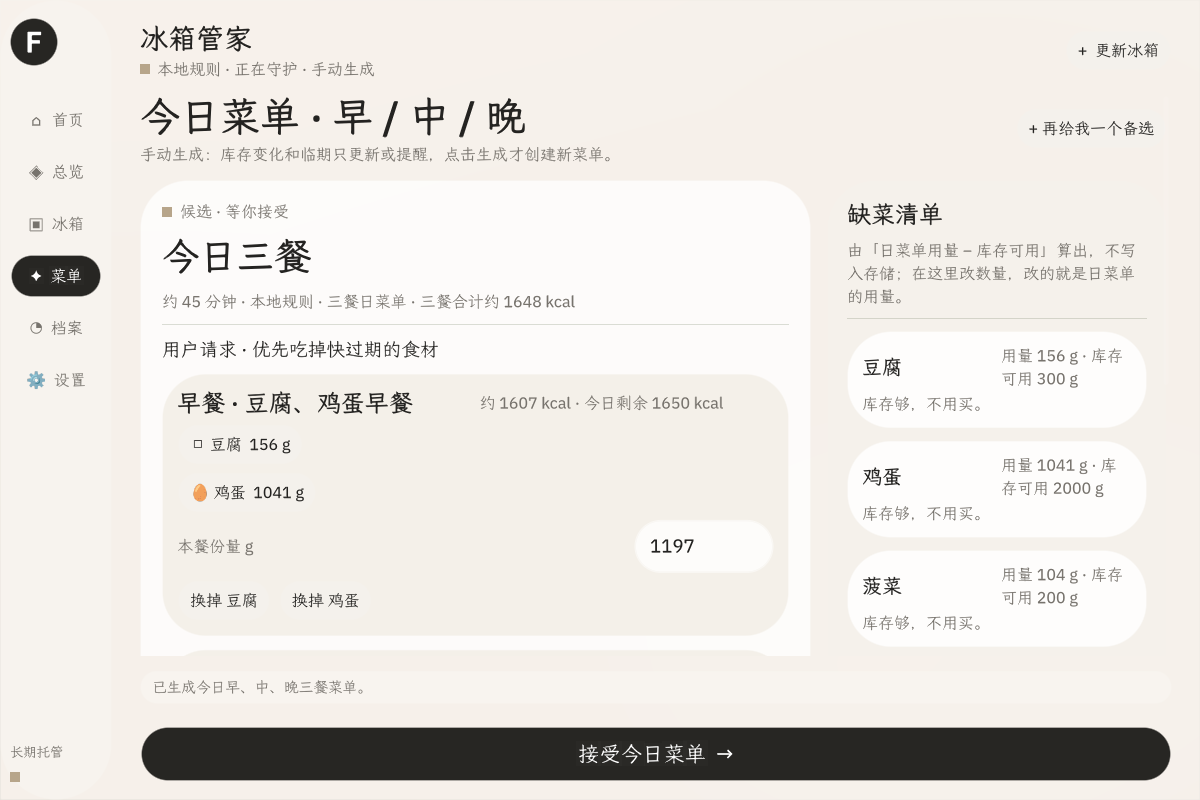
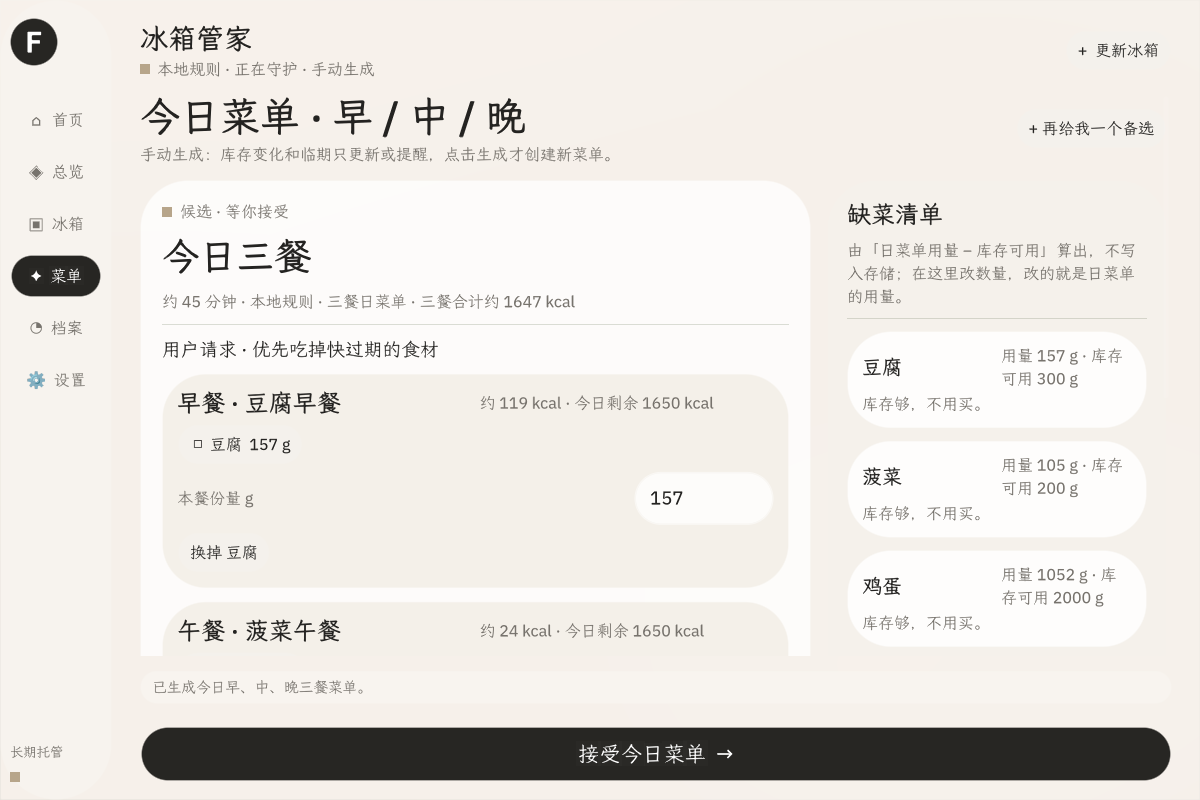
docs(#29): 交付检查点：重拍截图、改正仓库链接、按宿主固定 App Hub 重新盖章
- bundle/screenshots 四张发布截图用当前 0.8.0 在隐藏参考宿主中重拍（合成数据），
  如实显示 缺菜清单 还差 952 克、可编辑数量与 一键补齐 入口。
- 支持与隐私链接随仓库改名更新为 pantry-steward（listing、PRIVACY、SUPPORT、
  SUBMISSION、AGENTS、test_release 守卫）。
- 按宿主固定的官方 App Hub 8347a489 重新盖章，bundle check PASSED，仅余预期
  未签名提示；manifest 版本保持 0.8.0。
- VALIDATION.md 记录本次原生运行（--menu-purchase 13/13）与仍未验证项。

diff --git a/tools/test_release.py b/tools/test_release.py
@@ -6,7 +6,7 @@ import unittest
 
 APP = Path(__file__).resolve().parents[1]
 BUNDLE = APP / "bundle"
-REPOSITORY = "https://github.com/woshuoduijiushidui/OctoSense-AppCard"
+REPOSITORY = "https://github.com/woshuoduijiushidui/pantry-steward"
 
 
 class ReleaseMetadataTests(unittest.TestCase):
@@ -29,6 +29,14 @@ class ReleaseMetadataTests(unittest.TestCase):
             path = (BUNDLE / name).resolve()
             self.assertTrue(path.is_relative_to(BUNDLE.resolve()))
             self.assertTrue(path.is_file(), name)
+
+    def test_no_stale_repository_name_in_published_metadata(self):
+        # The repository was renamed to pantry-steward. A stale link is a dead
+        # end for users and would disagree with REPOSITORY above, so guard it.
+        for name in ("README.md", "README.zh-CN.md", "PRIVACY.md", "SUPPORT.md",
+                     "SUBMISSION.md", "AGENTS.md"):
+            self.assertNotIn("OctoSense-AppCard", (APP / name).read_text(encoding="utf-8"), name)
+        self.assertNotIn("OctoSense-AppCard", (BUNDLE / "listing.json").read_text(encoding="utf-8"))
 
     def test_package_size_and_no_private_configuration(self):
         files = [path for path in BUNDLE.rglob("*") if path.is_file()]

diff --git a/README.md b/README.md
@@ -8,7 +8,7 @@ Turn confirmed pantry inventory into a meal you can review and execute.
 
 This branch contains the unpublished **0.8.0 source candidate** for Issue #2 and the Issue #8–#11 and #23–#28 features (six-cycle candidates, composed plans, future-stage editing, the Overview page, the three-meal day menu and its derived 缺菜清单, the 模拟买菜 region, its 待核对购物车 and 确认收货). Alongside manual inventory, cycles, and menus, it creates editable drafts from a camera or imported image when the locally modified host reports image capability. The official host falls back to manual entry. The bundle passes the pinned App Hub gate. [Issue #99](https://github.com/OctoSense-org/OctoSense-App-Hub/issues/99) reviews **0.6.1**, not this candidate; no release or Hub approval is claimed.
 
-Only Windows is targeted. On 2026-10-11 the 0.8.0 bundle passed the pinned App Hub gate and 19 Python tests. In an isolated profile, the unmodified full official host passed 26 UI/data checks and restart checks, including manual fallback from both image buttons. The locally modified host passed the capability probe, shared chooser, and cancellation checks; task-only model fixtures exercised both editable image drafts and a multi-row inventory commit. The user reported that the remaining foreground MiniMax image, camera, retry, and restart checks passed; per-step logs were not captured independently. Formal Store publication remains unverified. See [VALIDATION.md](VALIDATION.md).
+Only Windows is targeted. On 2026-10-11 the 0.8.0 bundle passed the pinned App Hub gate and 19 Python tests. In an isolated profile, the unmodified full official host passed 26 UI/data checks and restart checks, including manual fallback from both image buttons. The locally modified host passed the capability probe, shared chooser, and cancellation checks; task-only model fixtures exercised both editable image drafts and a multi-row inventory commit. The user reported that the remaining foreground MiniMax image, camera, retry, and restart checks passed; per-step logs were not captured independently. Formal Store publication remains unverified. See [VALIDATION.md](VALIDATION.md). The 2026-10-12 delivery checkpoint (#29) recaptured the four release screenshots, pointed the support/privacy links at the renamed `pantry-steward` repository, and restamped with the host-pinned App Hub `8347a489141c0e24cab564883db7c4592935a8b2`; `hub check bundle --allow-unsigned` passed with only the expected unsigned warning and 31 Python tests passed.
 
 ## What it does
 
@@ -28,7 +28,7 @@ Generation is manual by default. Optional automatic generation must be enabled i
 
 [Three-meal day menu and 缺菜清单](bundle/screenshots/02-plan.png) · [缺菜清单 with an editable gap](bundle/screenshots/03-confirm.png) · [Inventory](bundle/screenshots/04-updated.png)
 
-The four captures are current 0.8.0 captures from a hidden Windows card-host with synthetic inventory (1200x800): 首页; the three-meal day menu (早/中/晚) with its derived 缺菜清单; the 缺菜清单 showing 还差 941 克 with an editable quantity; and the inventory batch list. The recording is the historical 0.7.0 manual-flow video. More synthetic-data captures: [home](docs/qa/issue-2-home-after.png), [profile editing](docs/qa/issue-2-profile-edit-after.png), [inventory](docs/qa/issue-2-inventory-after.png), [local-host image chooser](docs/qa/issue-2-image-chooser-after.png), [official-host fallback](docs/qa/issue-2-official-fallback-after.png), [recipe](docs/qa/issue-2-recipe-after.png), [consumption review](docs/qa/issue-2-consumption-after.png), the [模拟买菜 region](docs/qa/issue-25-market.png), its [待核对购物车 with 无匹配/可售不足 flags and a simulated total](docs/qa/issue-26-cart.png), the [same-category 替换 list](docs/qa/issue-26-replace.png), and the [submitted 模拟订单 showing 待收货](docs/qa/issue-27-order.png), and the [确认收货 quantity/保质期 check](docs/qa/issue-28-receive.png). The captures illustrate the UI only; they do not prove live image recognition, Store publication, or a live provider response. Recording a new video is outside this PR.
+The four captures are current 0.8.0 captures from a hidden Windows card-host with synthetic inventory (1200x800): 首页; the three-meal day menu (早/中/晚) with its derived 缺菜清单; the 缺菜清单 showing 还差 952 克 with an editable quantity and the 一键补齐 entry; and the inventory batch list. The recording is the historical 0.7.0 manual-flow video. More synthetic-data captures: [home](docs/qa/issue-2-home-after.png), [profile editing](docs/qa/issue-2-profile-edit-after.png), [inventory](docs/qa/issue-2-inventory-after.png), [local-host image chooser](docs/qa/issue-2-image-chooser-after.png), [official-host fallback](docs/qa/issue-2-official-fallback-after.png), [recipe](docs/qa/issue-2-recipe-after.png), [consumption review](docs/qa/issue-2-consumption-after.png), the [模拟买菜 region](docs/qa/issue-25-market.png), its [待核对购物车 with 无匹配/可售不足 flags and a simulated total](docs/qa/issue-26-cart.png), the [same-category 替换 list](docs/qa/issue-26-replace.png), and the [submitted 模拟订单 showing 待收货](docs/qa/issue-27-order.png), and the [确认收货 quantity/保质期 check](docs/qa/issue-28-receive.png). The captures illustrate the UI only; they do not prove live image recognition, Store publication, or a live provider response. Recording a new video is outside this PR.
 
 ## Windows source launch
 

diff --git a/README.zh-CN.md b/README.zh-CN.md
@@ -8,7 +8,7 @@
 
 此功能分支是尚未发布的 Issue #2 **0.8.0 源码候选**，并包含 Issue #8–#11 与 #23–#28 的功能（六周期候选、组合计划、未来阶段编辑、总览页、三餐日菜单与派生缺菜清单、模拟买菜区域与其待核对购物车、确认收货）。除手动库存、周期和菜单外，它在具备图片能力的本地改版宿主上提供拍照／导入图片识别草稿；官方宿主回退手动录入。源码包通过当前固定版本 App Hub 门禁。[Issue #99](https://github.com/OctoSense-org/OctoSense-App-Hub/issues/99) 请求审核的是 **0.6.1**，不是此候选；不声称已发布或获 App Hub 审批。
 
-目标平台仅为 Windows。2026-10-11，0.8.0 包通过固定版本 App Hub 检查，19 项 Python 测试通过；未修改的官方完整宿主在隔离档案完成 26 项 UI／数据检查和重启检查，两种图片入口都显示手动回退。本地改版宿主通过图片能力探测、共用选择界面及取消不写库检查；任务专用模拟结果验证了两类可编辑草稿和多行一次入库。用户报告剩余的 MiniMax 图片、摄像头、重试和重启前台验收通过；没有逐步独立日志。正式 Store 发布仍未验证。见[验证记录](VALIDATION.md)。
+目标平台仅为 Windows。2026-10-11，0.8.0 包通过固定版本 App Hub 检查，19 项 Python 测试通过；未修改的官方完整宿主在隔离档案完成 26 项 UI／数据检查和重启检查，两种图片入口都显示手动回退。本地改版宿主通过图片能力探测、共用选择界面及取消不写库检查；任务专用模拟结果验证了两类可编辑草稿和多行一次入库。用户报告剩余的 MiniMax 图片、摄像头、重试和重启前台验收通过；没有逐步独立日志。正式 Store 发布仍未验证。见[验证记录](VALIDATION.md)。2026-10-12 的交付检查点（#29）重拍了四张发布截图，把支持与隐私链接改为改名后的 `pantry-steward` 仓库，并用宿主固定的官方 App Hub `8347a489141c0e24cab564883db7c4592935a8b2` 重新盖章；`hub check bundle --allow-unsigned` 通过且仅余预期的未签名提示，31 项 Python 测试通过。
 
 ## 功能闭环
 
@@ -28,7 +28,7 @@
 
 [三餐日菜单与缺菜清单](bundle/screenshots/02-plan.png) · [缺菜清单与可编辑缺口](bundle/screenshots/03-confirm.png) · [库存](bundle/screenshots/04-updated.png)
 
-四张截图为当前 0.8.0 在隐藏 Windows card-host 中的合成数据截图（1200x800）：首页；三餐日菜单（早／中／晚）与派生缺菜清单；缺菜清单显示 还差 941 克 及可编辑数量；库存批次。录屏仍为先前 0.7.0 手动流程。当前版其它合成数据截图包括[首页](docs/qa/issue-2-home-after.png)、[修改用户画像](docs/qa/issue-2-profile-edit-after.png)、[库存](docs/qa/issue-2-inventory-after.png)、[改版宿主图片选择](docs/qa/issue-2-image-chooser-after.png)、[官方宿主手动提示](docs/qa/issue-2-official-fallback-after.png)、[菜谱](docs/qa/issue-2-recipe-after.png)和[食用前核对](docs/qa/issue-2-consumption-after.png)、[模拟买菜区域](docs/qa/issue-25-market.png)、其[带 无匹配／可售不足 标注与模拟总价的待核对购物车](docs/qa/issue-26-cart.png)，以及[同品类替换列表](docs/qa/issue-26-replace.png)，和[提交后显示 待收货 的模拟订单](docs/qa/issue-27-order.png)，以及[确认收货的核对数量与保质期界面](docs/qa/issue-28-receive.png)。截图只说明界面，不能证明真实图片识别、Store 发布或真实模型响应。新录屏不属于本次 PR。
+四张截图为当前 0.8.0 在隐藏 Windows card-host 中的合成数据截图（1200x800）：首页；三餐日菜单（早／中／晚）与派生缺菜清单；缺菜清单显示 还差 952 克 及可编辑数量与 一键补齐 入口；库存批次。录屏仍为先前 0.7.0 手动流程。当前版其它合成数据截图包括[首页](docs/qa/issue-2-home-after.png)、[修改用户画像](docs/qa/issue-2-profile-edit-after.png)、[库存](docs/qa/issue-2-inventory-after.png)、[改版宿主图片选择](docs/qa/issue-2-image-chooser-after.png)、[官方宿主手动提示](docs/qa/issue-2-official-fallback-after.png)、[菜谱](docs/qa/issue-2-recipe-after.png)和[食用前核对](docs/qa/issue-2-consumption-after.png)、[模拟买菜区域](docs/qa/issue-25-market.png)、其[带 无匹配／可售不足 标注与模拟总价的待核对购物车](docs/qa/issue-26-cart.png)，以及[同品类替换列表](docs/qa/issue-26-replace.png)，和[提交后显示 待收货 的模拟订单](docs/qa/issue-27-order.png)，以及[确认收货的核对数量与保质期界面](docs/qa/issue-28-receive.png)。截图只说明界面，不能证明真实图片识别、Store 发布或真实模型响应。新录屏不属于本次 PR。
 
 ## Windows 源码运行
 

diff --git a/VALIDATION.md b/VALIDATION.md
@@ -1,5 +1,76 @@
 # Migration validation
 
+## Issue #29 交付检查点：标注、文档、截图、重新盖章 — 2026-10-12
+
+This is the delivery checkpoint, not a behaviour change: `bundle/main.splash` is
+byte-identical to the Issue #28 commit. Only metadata, screenshots and docs
+changed.
+
+- Renamed-repository links fixed everywhere they were still stale after the
+  rename to `woshuoduijiushidui/pantry-steward`: `bundle/listing.json`
+  (`publisher.support`, `publisher.privacy_policy_url`), `PRIVACY.md`,
+  `SUPPORT.md`, the historical links in `SUBMISSION.md`,
+  `tools/test_release.py`'s `REPOSITORY`, and the tracker note in `AGENTS.md`.
+  No `OctoSense-AppCard` URL remains in the tree outside ignored local state.
+- The four `bundle/screenshots/*.png` release assets were recaptured from this
+  commit's bundle files in the same hidden reference card-host used since
+  Issue #24 (655114c, 1200x800, synthetic inventory: 豆腐 300 g 临期, 鸡蛋
+  2000 g → 100 g, 菠菜 200 g 临期, 蘑菇 150 g; local-rule day menu): 首页 (4 批);
+  the candidate three-meal day menu with its derived 缺菜清单; the 缺菜清单
+  after the 鸡蛋 batch was edited to 100 g, showing `需要补齐 952` / `还差 952 克`,
+  the editable amount, and the `一键补齐 · 去模拟买菜` entry; and the inventory
+  batch list. The old captures predated #25 and showed neither the editable gap
+  nor `一键补齐`. The earlier text said 941 克; the honest recapture says 952.
+- Restamped with the official App Hub revision the current host pins,
+  `8347a489141c0e24cab564883db7c4592935a8b2` (`hub stamp bundle`), built with
+  `cargo build --release -p octosense-app-hub --bin hub` from a task-owned
+  worktree checked out at that commit (output under `target/hub-8347`, using
+  the prepared sibling runtime checkouts). `bundle_blake3 =
[1 lines of base64/hex data omitted]
+  version stays **0.8.0**; capabilities stay `storage, model, camera, files`.
+- `hub check bundle --allow-unsigned` on the committed bundle **PASSED** with
+  only the expected unsigned warning: `pantry-steward 0.8.0 — PASSED`, warning
+  `publisher-signature: unsigned`. This is why the host pin matters: the older
+  publishing pin `655114c4943cd2490daaefa2173e7b5aaa20669f` does not know the
+  `files` capability and refuses it. That refusal was a pin mismatch, not a
+  bundle defect; `files` is declared in App Hub from commit `30c9d19`, which is
+  in the host pin's history.
+
+### Native run, 2026-10-12 — bundle files of this commit, manifest patched in a test copy
+
+- Same task-owned host procedure as Issue #25–#28: `.local-state/qa-29/bundle`
+  with `manifest.json` patched in that copy only (drop `files`, `requires`,
+  `host_api`), admitted with the pinned reference `card-host --stamp
+  --allow-unsigned` at 1200x800. The copy differs from the committed bundle
+  only in `manifest.json` (`diff -rq`), so no committed bundle file differed.
+  This copy is used only because the machine's prebuilt card-host is the
+  655114c build that lacks `files`; the committed manifest was not changed to
+  accommodate it.
+- The four screenshots above are real captures of that run.
+- Regression on the same bundle files: `python -X utf8 tools/qa_release.py
+  --port 18499 --profile .local-state/qa-29/qa-std --menu-purchase` — **13/13
+  checks passed** (three meals, grams, over-budget refusal, merged 缺菜清单,
+  re-derived gap, editable gap, never stored, accept, empty-meal refusal).
+  Since `main.splash` is byte-identical to the #28 run, the #25–#28 mode
+  regressions are unchanged and were not re-driven.
+- `python -X utf8 -m unittest discover -s tools -p 'test_*.py'`: **31 passed**
+  (includes the updated repository-link guard).
+- `git diff --check` clean; bundle 2,518,774 / 8,388,608 bytes.
+- All inventory was synthetic; no real inventory, keys or provider calls.
+
+### Not verified
+
+- No full OctoSense shell checkout with the 8347a489 pin exists on this
+  machine, so the committed manifest was not run under the full official shell
+  (only the reference card-host on a patched test copy).
+- Live `model.complete` was not exercised; the QA used the local rule path.
+- The publishing workflow and `publisher-toolchain.json` still pin App Hub
+  `655114c4943cd2490daaefa2173e7b5aaa20669f`, which cannot gate this bundle as
+  is; the publishing route must be reviewed before any 0.8.0 tag.
+- Formal release evidence review, publisher identity/signing, public-link
+  review, App Hub submission and competition qualification remain human
+  checkpoints. No tag, Release, new issue or submission was made.
+
 ## Issue #28 确认收货：核对数量与保质期并入库 — 2026-10-12
 
 - `bundle/main.splash` (schema stays 2, no new state field): the transient

diff --git a/SUBMISSION.md b/SUBMISSION.md
@@ -1,11 +1,11 @@
 # 0.8.0 本地提交准备 / Publication checkpoint
 
-当前 `bundle/` 是 Issue #2 的 **0.8.0 未发布源码候选**，仅面向 Windows。固定版本 App Hub 包检查、19 项 Python 测试、隔离完整宿主的本地测试签名安装，以及官方宿主手动回退检查已通过。本地改版宿主已验证能力探测、共用选择界面及取消不写库；用户报告真实 MiniMax 图片、摄像头及重试前台验收通过，但未留存逐步独立日志。四张原截图及现有视频属于先前 0.7.0 手动流程；新版合成数据界面截图仅说明界面变化。新视频不属于本次 PR。详见 [VALIDATION.md](VALIDATION.md)。这些本地检查不等于正式封存包、上架或比赛资格。
+当前 `bundle/` 是 Issue #2 的 **0.8.0 未发布源码候选**，仅面向 Windows。固定版本 App Hub 包检查、31 项 Python 测试、隔离完整宿主的本地测试签名安装，以及官方宿主手动回退检查已通过；#29 交付检查点已用宿主固定的官方 App Hub `8347a489141c0e24cab564883db7c4592935a8b2` 重新盖章，提交后的 bundle 校验 `PASSED`，仅余预期的未签名提示。本地改版宿主已验证能力探测、共用选择界面及取消不写库；用户报告真实 MiniMax 图片、摄像头及重试前台验收通过，但未留存逐步独立日志。`bundle/screenshots/` 四张截图为当前 0.8.0 用合成数据在隐藏参考宿主中重拍；现有视频属于先前 0.7.0 手动流程，新视频不属于本次 PR。见 [VALIDATION.md](VALIDATION.md)。这些本地检查不等于正式封存包、上架或比赛资格。
 
 发布前仍须完成：
 
 1. 正式发布前复核用户报告的真实图片提供方、相机、已有图片、取消与重启前台验收，以及当前截图的适用范围；本地测试签名身份已获本人许可并用于隔离安装。新录屏由其他任务处理。
-2. 审核工作流、发布者身份、签名／封存流程、当前公开支持与隐私链接。现有 `publisher-toolchain.json` 和发布工作流仍固定早期 0.6.2 的 App Hub 提交 `655114c4943cd2490daaefa2173e7b5aaa20669f`，与本次源码检查使用的宿主固定提交不同，不能直接作为 0.8.0 发布证明；listing 隐私链接也仍指向 `main/PRIVACY.md`，远端页面须与最终候选一致。
+2. 审核工作流、发布者身份、签名／封存流程。打包清单及公开隐私、支持页面的链接已随仓库改名为 `pantry-steward` 更新（见 VALIDATION.md #29）。现有 `publisher-toolchain.json` 和发布工作流仍固定早期 0.6.2 的 App Hub 提交 `655114c4943cd2490daaefa2173e7b5aaa20669f`，该提交不认识 `files` 能力，不能直接作为 0.8.0 发布证明；发布前须改用发布当日的官方固定版本（本次校验使用宿主固定的 `8347a489141c0e24cab564883db7c4592935a8b2`）并重新核对产物。
 3. 取得本人对提交、推送、`v0.8.0` 标签、发布、App Hub 新 Issue 的分别适用授权；运行最新版发布流程并核对产物 SHA256、publisher-unpack／publisher-verify 和实际工作流／Release URL。
 4. 单独确认比赛截止后的改进版本是否被接受；源码完成不自动改变比赛规则。旧版 [0.6.1 / #99](https://github.com/OctoSense-org/OctoSense-App-Hub/issues/99) 的标签及审核记录不变。
 
@@ -19,8 +19,8 @@
 - 旧提交：[0.6.1 / #99](https://github.com/OctoSense-org/OctoSense-App-Hub/issues/99)，其标签及审核记录不变。
 - 发布者姓名、Windows-only 声明及向宿主模型提供方发送规划输入的隐私说明：用户已确认。
 - 背景图 sunlit-pantry-bg.png：作者于 2026-10-08 确认是本人原创，已记录 NOTICE；不声称独立权属鉴定。
-- 支持：https://github.com/woshuoduijiushidui/OctoSense-AppCard/issues
-- 隐私：https://github.com/woshuoduijiushidui/OctoSense-AppCard/blob/main/PRIVACY.md
+- 支持：https://github.com/woshuoduijiushidui/pantry-steward/issues
+- 隐私：https://github.com/woshuoduijiushidui/pantry-steward/blob/main/PRIVACY.md
 - 源码检查、单元测试及尚未验证项见 [VALIDATION.md](VALIDATION.md)。
 
 ## 发布前仍须本人确认

diff --git a/PRIVACY.md b/PRIVACY.md
@@ -14,4 +14,4 @@
 
 本地记录与备份保留到用户删除相应应用数据。删除前请先备份需要的信息；如需彻底删除，还需自行处理已导出的副本。线上请求的保留、删除方式和处理位置以提供方政策为准，本应用无法保证删除提供方已接收的信息。应用不内置统计或额外上传入口。
 
-问题反馈：https://github.com/woshuoduijiushidui/OctoSense-AppCard/issues 。反馈时不要附 API Key、完整饮食档案或未经脱敏的库存数据。
+问题反馈：https://github.com/woshuoduijiushidui/pantry-steward/issues 。反馈时不要附 API Key、完整饮食档案或未经脱敏的库存数据。

diff --git a/SUPPORT.md b/SUPPORT.md
@@ -2,7 +2,7 @@
 
 发布者：leoniaodo、zix、power胖丸、Roooy。
 
-请在 https://github.com/woshuoduijiushidui/OctoSense-AppCard/issues 反馈问题。
+请在 https://github.com/woshuoduijiushidui/pantry-steward/issues 反馈问题。
 
 提供应用版本、宿主版本、系统、复现步骤和脱敏后的错误信息。不要提交 API Key、签名密钥、完整饮食档案或真实库存文件。
 

diff --git a/AGENTS.md b/AGENTS.md
@@ -31,7 +31,7 @@ shell to provide this app with additional privileges.
 
 ### Issue tracker
 
-Issues and specs live as GitHub issues on `woshuoduijiushidui/OctoSense-AppCard`, managed with the `gh` CLI. See `docs/agents/issue-tracker.md`.
+Issues and specs live as GitHub issues on `woshuoduijiushidui/pantry-steward`, managed with the `gh` CLI. See `docs/agents/issue-tracker.md`.
 
 ### Triage labels
 
